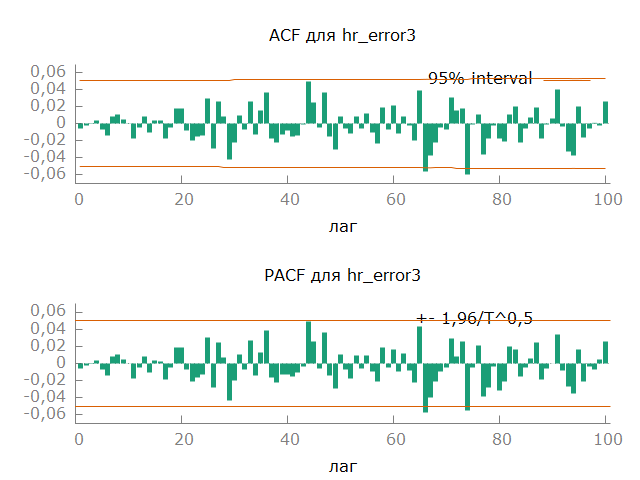
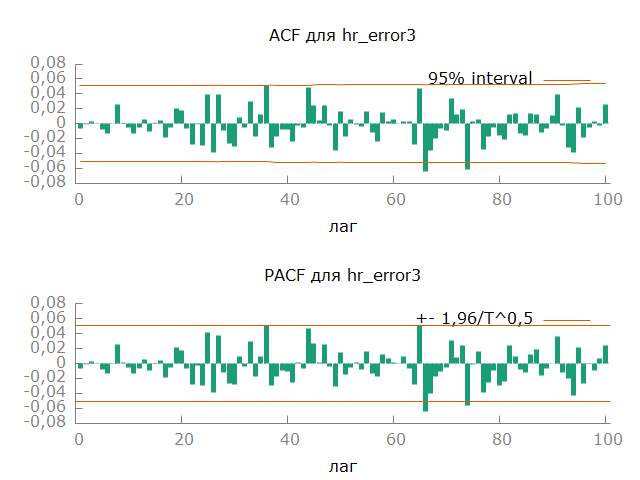
change arma and dev script

diff --git a/[text]/main.tex b/[text]/main.tex
@@ -496,14 +496,14 @@
 	\label{fig:hr_error2_spectr}
 \end{figure}
 
-При подборе порядка авторегрессии и скользящего среднего наилучший результат по критерию Акаике получился у модели ARIMA(8, 0, 10) (таблица \ref{tab:table4} - часть таблицы с AR и MA корнями опущена из-за значительного объема). При анализе коррелограммы и периодограммы остаточной разности hr\_error3 модели ARMA по графикам \ref{fig:hr_error3_acf_100} и \ref{fig:hr_error3_spectr} соответственно, можно сказать, что hr\_error3 визуально схожа с процессом белого шума.
+При подборе порядка авторегрессии и скользящего среднего наилучший результат по критерию Акаике получился у модели ARIMA(8, 0, 7) (таблица \ref{tab:table4}). При анализе коррелограммы и периодограммы остаточной разности hr\_error3 модели ARMA по графикам \ref{fig:hr_error3_acf_100} и \ref{fig:hr_error3_spectr} соответственно, можно сказать, что hr\_error3 визуально схожа с процессом белого шума.
 
 \begin{table}[H]
 \begin{center}
 	
-	ARMA(8, 10), использованы наблюдения 1--1485\\
+	ARMA(8, 7), использованы наблюдения 1--1485\\
 	Зависимая переменная: hr\_error1\\
-	Стандартные ошибки рассчитаны на основе матрицы внешнего произведения
+	Стандартные ошибки рассчитаны на основе Гессиана
 	
 	\vspace{1em}
 	
@@ -514,120 +514,130 @@
 		\multicolumn{2}{c}{$z$} &
 		\multicolumn{2}{c}{P-значение} \\[1ex]
 		const &
-		$-$0&0123376 &
-		0&532602 &
-		$-$0&02316 &
-		0&9815 \\
+		$-$0&0133712 &
+		0&533708 &
+		$-$0&02505 &
+		0&9800 \\
 		$\phi_{1}$ &
-		0&950905 &
-		0&125275 &
-		7&591 &
+		0&954470 &
+		0&0531005 &
+		17&97 &
 		0&0000 \\
 		$\phi_{2}$ &
-		1&25831 &
-		0&147541 &
-		8&529 &
+		1&02735 &
+		0&0922044 &
+		11&14 &
 		0&0000 \\
 		$\phi_{3}$ &
-		$-$0&897638 &
-		0&219060 &
-		$-$4&098 &
-		0&0000 \\
+		$-$0&281596 &
+		0&140136 &
+		$-$2&009 &
+		0&0445 \\
 		$\phi_{4}$ &
-		$-$0&482351 &
-		0&267316 &
-		$-$1&804 &
-		0&0712 \\
+		$-$1&07043 &
+		0&0826160 &
+		$-$12&96 &
+		0&0000 \\
 		$\phi_{5}$ &
-		$-$0&814308 &
-		0&244094 &
-		$-$3&336 &
-		0&0008 \\
+		$-$0&594566 &
+		0&189362 &
+		$-$3&140 &
+		0&0017 \\
 		$\phi_{6}$ &
-		0&642992 &
-		0&184476 &
-		3&486 &
-		0&0005 \\
+		0&576216 &
+		0&0723388 &
+		7&966 &
+		0&0000 \\
 		$\phi_{7}$ &
-		0&934519 &
-		0&138419 &
-		6&751 &
+		1&01328 &
+		0&135282 &
+		7&490 &
 		0&0000 \\
 		$\phi_{8}$ &
-		$-$0&648462 &
-		0&0867906 &
-		$-$7&472 &
+		$-$0&685049 &
+		0&0776715 &
+		$-$8&820 &
 		0&0000 \\
 		$\theta_{1}$ &
-		0&369439 &
-		0&128233 &
-		2&881 &
-		0&0040 \\
+		0&368473 &
+		0&0616605 &
+		5&976 &
+		0&0000 \\
 		$\theta_{2}$ &
-		$-$1&02917 &
-		0&116817 &
-		$-$8&810 &
+		$-$0&804200 &
+		0&0742579 &
+		$-$10&83 &
 		0&0000 \\
 		$\theta_{3}$ &
-		$-$0&647314 &
-		0&177301 &
-		$-$3&651 &
-		0&0003 \\
+		$-$0&973799 &
+		0&0746751 &
+		$-$13&04 &
+		0&0000 \\
 		$\theta_{4}$ &
-		$-$0&233508 &
-		0&155526 &
-		$-$1&501 &
-		0&1333 \\
+		$-$0&117496 &
+		0&107461 &
+		$-$1&093 &
+		0&2742 \\
 		$\theta_{5}$ &
-		0&791975 &
-		0&148361 &
-		5&338 &
+		0&787371 &
+		0&0911584 &
+		8&637 &
 		0&0000 \\
 		$\theta_{6}$ &
-		0&627772 &
-		0&0863824 &
-		7&267 &
+		0&666557 &
+		0&0674118 &
+		9&888 &
 		0&0000 \\
 		$\theta_{7}$ &
-		$-$0&335963 &
-		0&0700217 &
-		$-$4&798 &
+		$-$0&336733 &
+		0&0738103 &
+		$-$4&562 &
 		0&0000 \\
-		$\theta_{8}$ &
-		0&0192898 &
-		0&0540784 &
-		0&3567 &
-		0&7213 \\
-		$\theta_{9}$ &
-		0&0172992 &
-		0&0529066 &
-		0&3270 &
-		0&7437 \\
-		$\theta_{10}$ &
-		$-$0&0332634 &
-		0&0423144 &
-		$-$0&7861 &
-		0&4318 \\
 		ele\_error1 &
-		0&403004 &
-		0&0801149 &
-		5&030 &
+		0&445471 &
+		0&0820600 &
+		5&429 &
 		0&0000 \\
-		cad\_error1 &
-		0&00211185 &
-		0&00255664 &
-		0&8260 &
-		0&4088 \\
+		cad\_trend1 &
+		$-$0&0422177 &
+		0&451399 &
+		$-$0&09353 &
+		0&9255 \\
 	\end{tabular}
 	
 	\vspace{1ex}
 	\begin{tabular}{lrlr}
-		Среднее зав. перемен & $-$3,45\textrm{e--16} & Ст. откл. зав. перемен &  8,808905 \\
-		Среднее инноваций &  0,005288 & Ст. откл. инноваций &  2,105095 \\
-		$R^2$ &  0,942861 & Исправленный $R^2$ &  0,942120 \\
-		Лог. правдоподобие & $-$3214,703 & Крит. Акаике &  6473,406 \\
-		Крит. Шварца &  6590,075 & Hannan--Quinn &  6516,891 \\
-	\end{tabular}	
+		Среднее зав. перемен & $-$3,83\textrm{e--17} & Ст. откл. зав. перемен &  8,808905 \\
+		Среднее инноваций &  0,005414 & Ст. откл. инноваций &  2,102646 \\
+		$R^2$ &  0,942993 & Исправленный $R^2$ &  0,942372 \\
+		Лог. правдоподобие & $-$3214,469 & Крит. Акаике &  6466,939 \\
+		Крит. Шварца &  6567,699 & Hannan--Quinn &  6504,494 \\
+	\end{tabular}
+	
+	
+	\vspace{1em}
+	
+	\begin{tabular}{llrrrrr}
+		& & & Действительная часть & Мнимая часть & Модуль & Частота \\ \hline
+		AR \\ 
+		& Корень & 1 & $1,0304$ & $0,2333$ & $1,0565$ & $0,0354$ \\ 
+		& Корень & 2 & $1,0304$ & $-0,2333$ & $1,0565$ & $-0,0354$ \\ 
+		& Корень & 3 & $-0,9350$ & $0,3739$ & $1,0070$ & $0,4394$ \\ 
+		& Корень & 4 & $-0,9350$ & $-0,3739$ & $1,0070$ & $-0,4394$ \\ 
+		& Корень & 5 & $1,0390$ & $-0,3774$ & $1,1055$ & $-0,0555$ \\ 
+		& Корень & 6 & $1,0390$ & $0,3774$ & $1,1055$ & $0,0555$ \\ 
+		& Корень & 7 & $-0,3949$ & $-0,9485$ & $1,0274$ & $-0,3128$ \\ 
+		& Корень & 8 & $-0,3949$ & $0,9485$ & $1,0274$ & $0,3128$ \\ 
+		MA \\ 
+		& Корень & 1 & $-0,9293$ & $0,3693$ & $1,0000$ & $0,4398$ \\ 
+		& Корень & 2 & $-0,9293$ & $-0,3693$ & $1,0000$ & $-0,4398$ \\ 
+		& Корень & 3 & $0,9882$ & $-0,3146$ & $1,0370$ & $-0,0491$ \\ 
+		& Корень & 4 & $0,9882$ & $0,3146$ & $1,0370$ & $0,0491$ \\ 
+		& Корень & 5 & $-0,3827$ & $-0,9511$ & $1,0252$ & $-0,3109$ \\ 
+		& Корень & 6 & $-0,3827$ & $0,9511$ & $1,0252$ & $0,3109$ \\ 
+		& Корень & 7 & $2,6271$ & $0,0000$ & $2,6271$ & $0,0000$ \\ \hline
+	\end{tabular}
+	
 \end{center}
 \caption{Модель статистической взаимосвязи между зависимой и независимыми переменными с учетом автокорреляции случайной составляющей.}
 \label{tab:table4}
